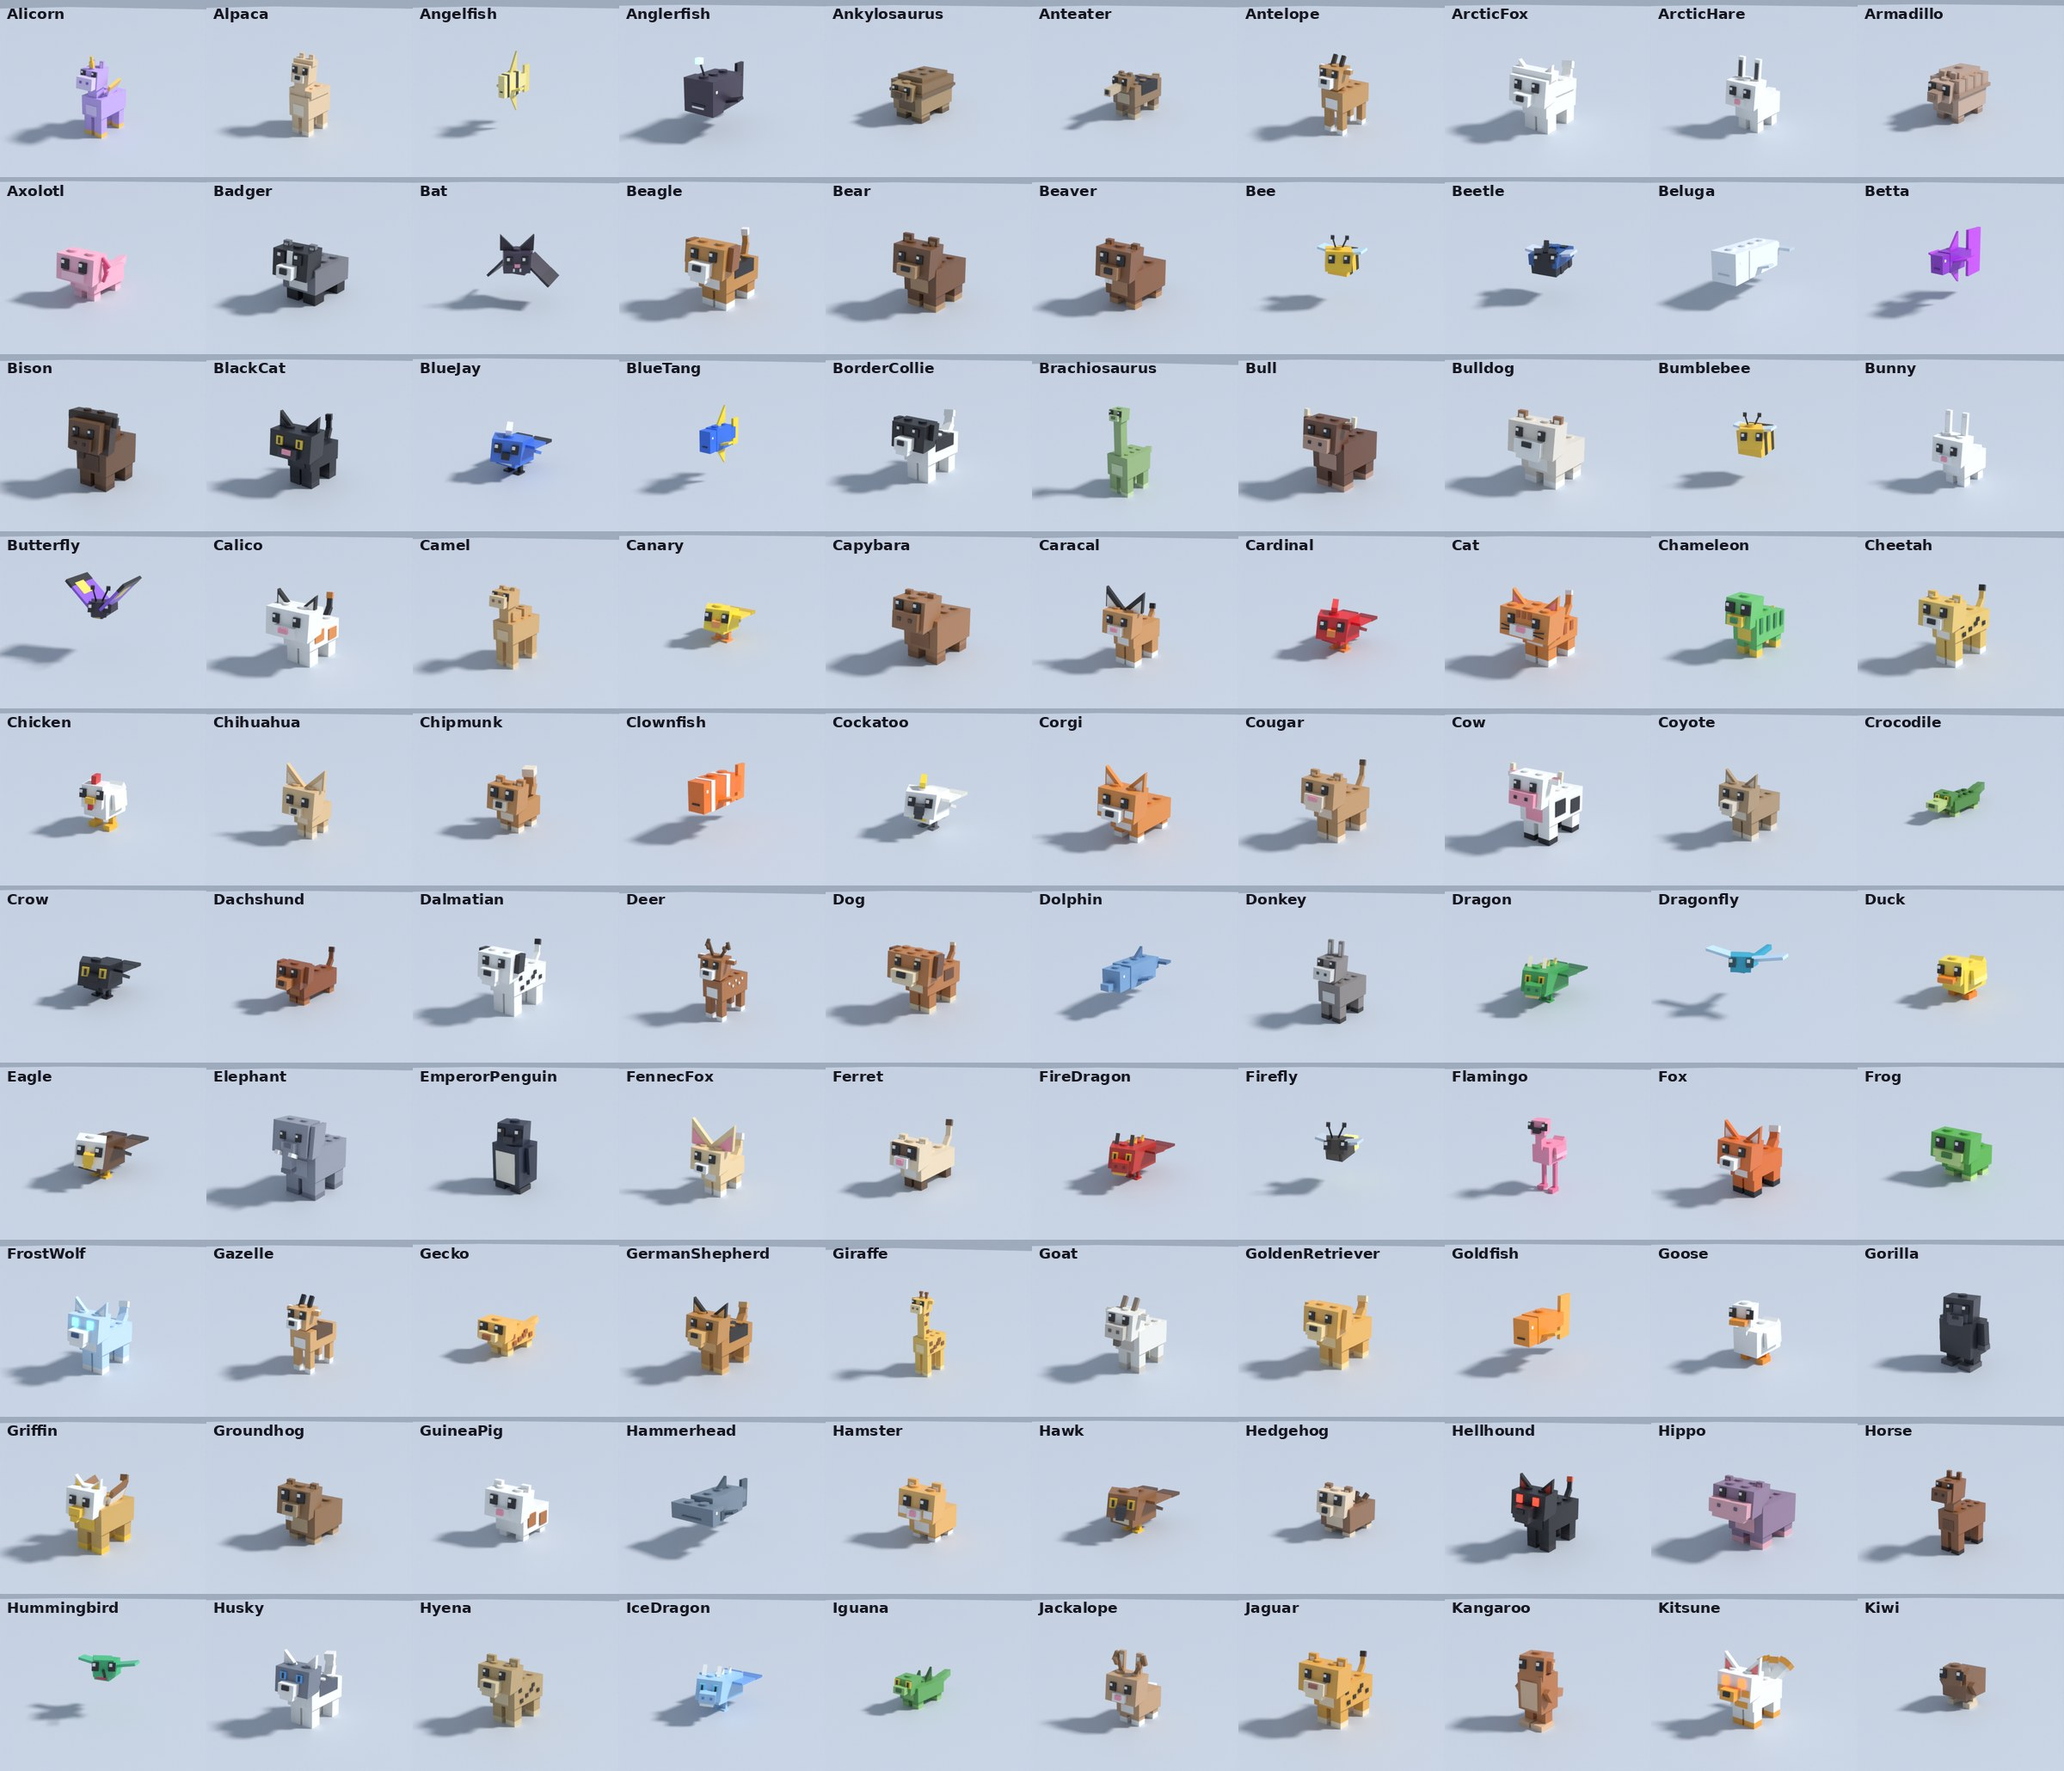
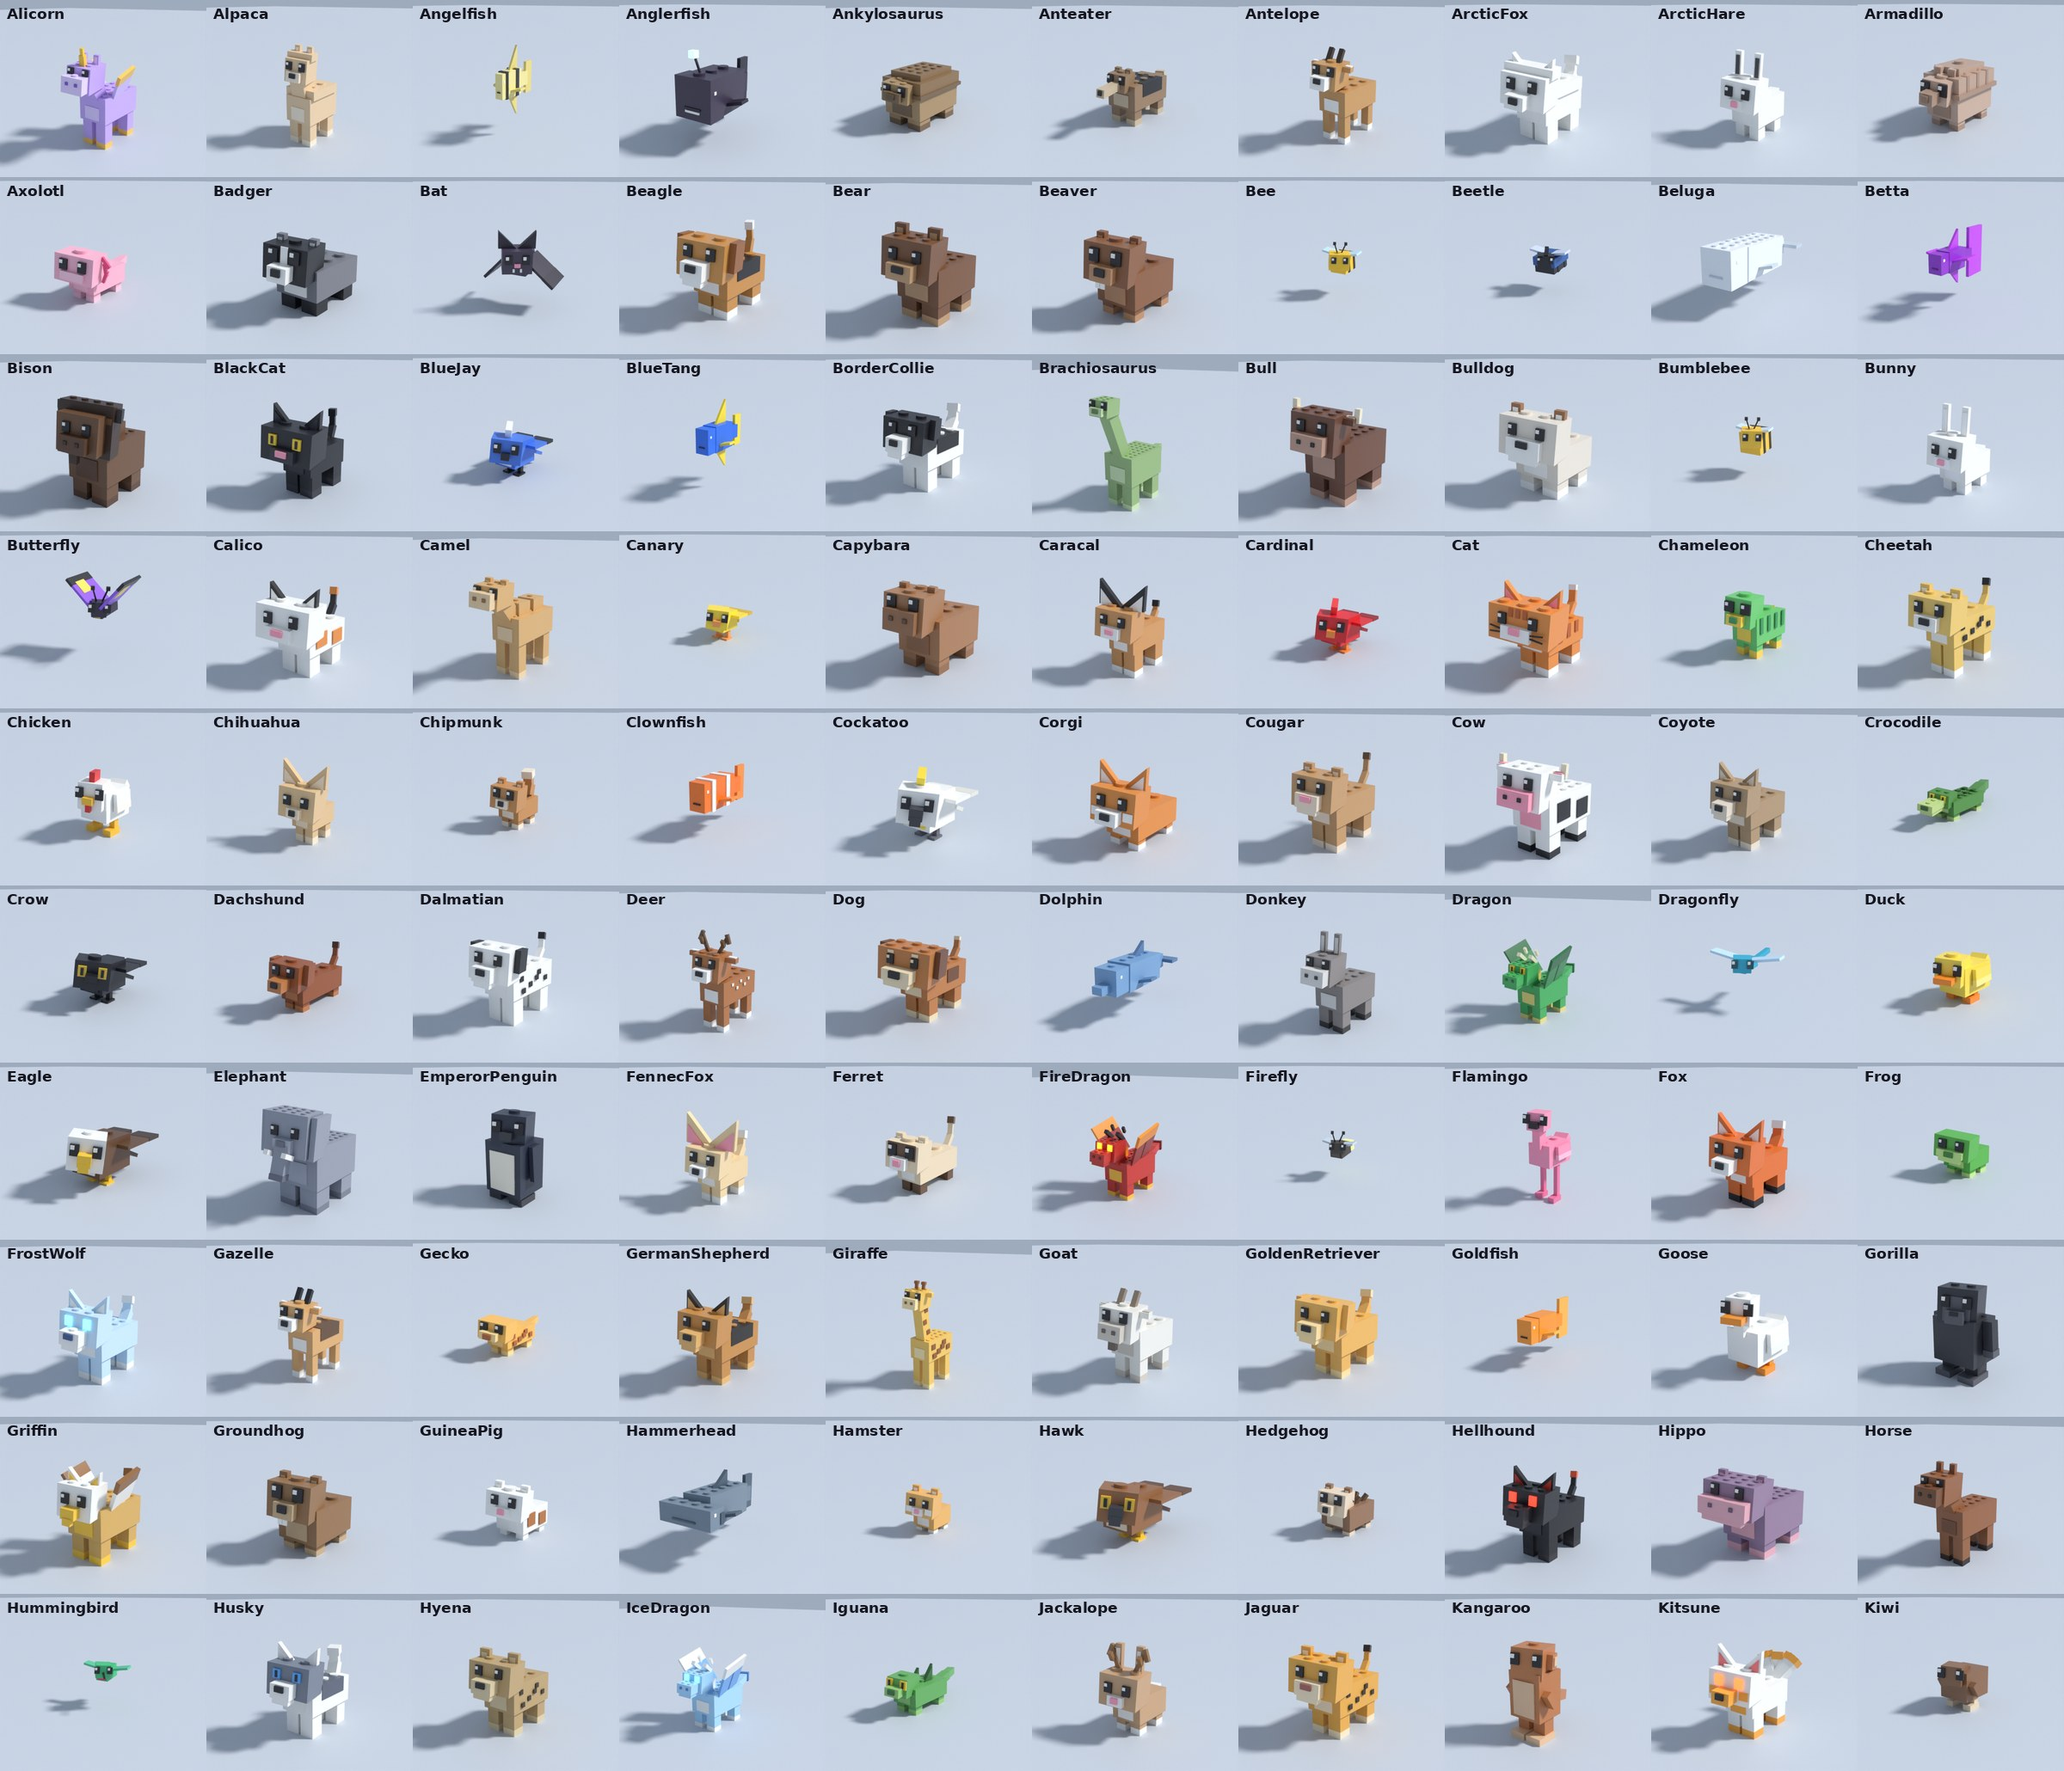
Stud Pets: refreshed 200-pet contact sheets, README size notes
Claude-Session: https://claude.ai/code/session_01VTSeDWiWiDzSUhSbupGaRK

diff --git a/StudPets/README.md b/StudPets/README.md
@@ -12,11 +12,18 @@ play **straight from code**. There's nothing to upload, no asset IDs, and nothin
 
 The full list is in `src/shared/StudPets/Animals.luau`.
 
+**Sizes are real:** each pet has a size class (`SIZE` table in `Animals.luau`), from bugs at ~0.55×
+to the whale at 2.5×. The rig and all animation offsets scale together (`AnimScale` attribute), and
+`Model:ScaleTo()` still works on top. Winged four-legged pets (dragons, pegasus, alicorn, griffin)
+have animated wings: folded at rest, flapping when running and jumping, spread when roaring or rearing.
+
 Every pet uses the same animation names, so `anim:Play("Walk")` works on all of them.
 To add a pet, add an entry to `src/shared/StudPets/Animals.luau`. That entry sets its size,
 colours, ears, tail, markings and trick, then you rebuild.
 
 The detailed table below covers the original Cat & Dog.
+
+![Size lineup](preview/size_lineup.png)
 
 ![Pets A-K](preview/all200_A-K.jpg)
 ![Pets K-Z](preview/all200_K-Z.jpg)
